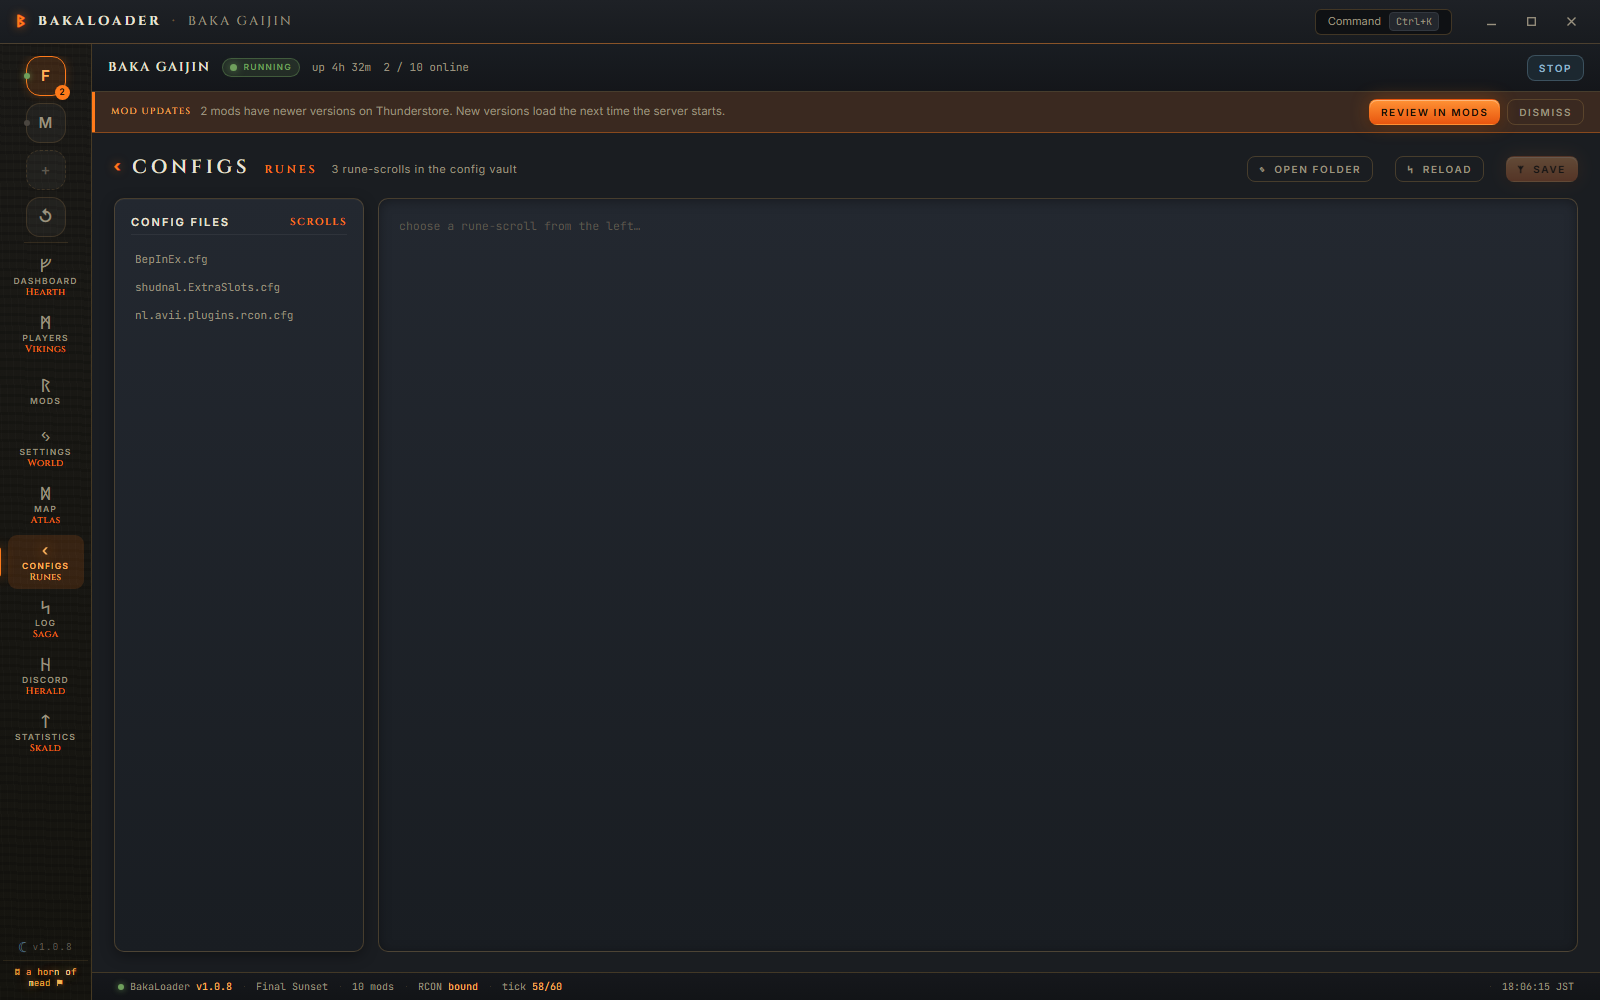
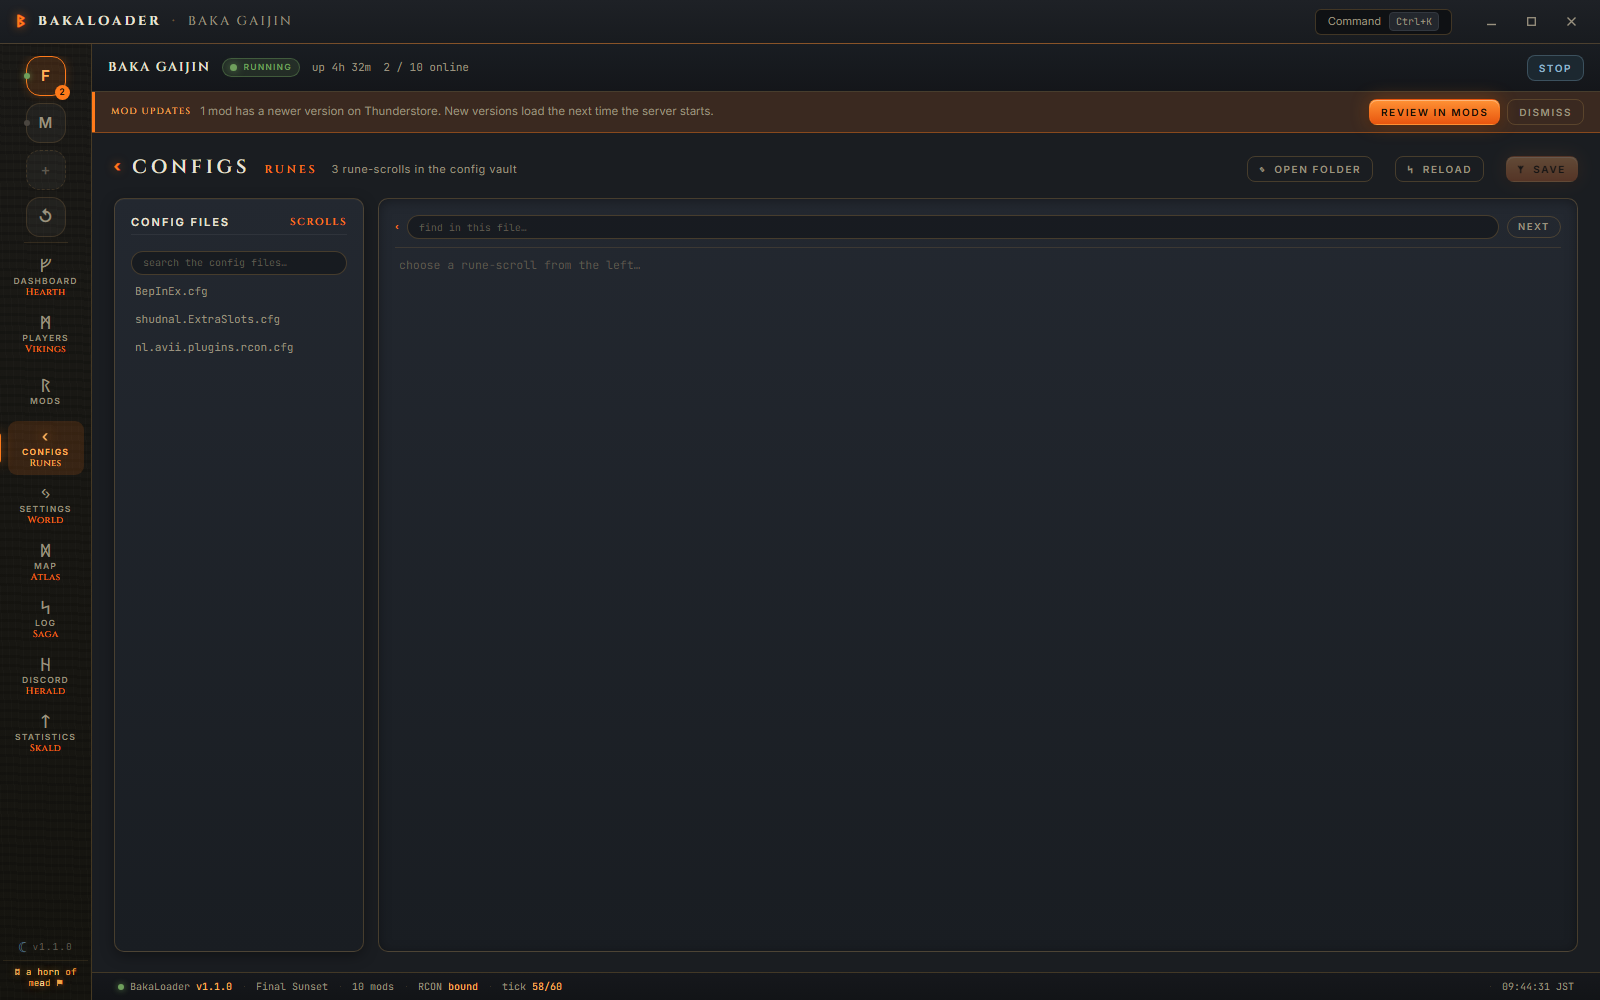
Docs: 1.0.9 and 1.1.0, Hexium opt-in, search, spawning, refreshed screenshots

diff --git a/README.md b/README.md
@@ -27,6 +27,46 @@
 
 ---
 
+## What is new in 1.1.0
+
+**A second mod site, off until you turn it on.** Some mods turn up on Hexium before they turn up on Thunderstore, and a few only ever turn up there. A new switch in the Upkeep card, **Also check Hexium**, lets BakaLoader read that site as well. It is off when you install this version and off after an upgrade, and while it is off BakaLoader does not open a connection to hexium.gg at all, not even to open one of its pages in your browser. Turn it on and a mod scan adds one step after the Thunderstore one: a blue mark on the Latest cell of any row where Hexium holds a higher version than both what you have installed and what Thunderstore has, and an **Open on Hexium** entry in the row menu for a mod the site carries.
+
+**The switch carries the whole of what it means, because turning it on is the agreement.** There is no second notice to click through. Whoever runs Hexium is not named on the site, and its accounts are Discord sign-ins, so BakaLoader cannot tell you that an author there is the same person as the author of that name on Thunderstore. With the switch on, your machine contacts hexium.gg about four times an hour while BakaLoader is open, because the index is fetched once and held for fifteen minutes however many mods you have, and the site says it keeps request logs for up to ninety days. With the switch off, nothing in the app names Hexium except the switch itself.
+
+<p align="center">
+  <a href="img/bl-hexium-switch.png"><img src="img/bl-hexium-switch.png" width="760" alt="The Also check Hexium switch in the Upkeep card, with the text that explains it"></a>
+</p>
+
+**Nothing is ever installed from Hexium on its own.** There is no automatic Hexium update, no Hexium row in **Update all**, and nothing in the scheduled restart or the empty-server restart that reaches for one. The mark is an offer and it waits for you. Choosing to install opens a dialog that names the package, the owner as Hexium spells it, the version, the size of the download when the site gives one, the folder that is already there and will be replaced, and anything the package says it needs, which BakaLoader does not fetch for you. Nothing is downloaded until you press **I accept the risk, install**.
+
+**A mod you took from Hexium is then left alone.** It carries a Hexium chip, it sits out **Update all**, it is not in the waiting updates count, and no scheduled or empty-server restart replaces it. If Thunderstore later moves past it, the row says so and the row menu offers the Thunderstore build, which asks the same way before it replaces anything. Mods you installed by hand are untouched by all of this: BakaLoader only treats a folder as a Hexium install when it put the files there itself and left its own record inside the folder saying so, and it stops believing that record the moment the folder's version stops matching it. A download has to come from an address on hexium.gg before the first request, at every redirect and at the end, it stops at 600 MiB, and if the site listed a size and what arrives is not that size then nothing is installed and the copy you had is left exactly as it was. Detail: [Hexium](https://github.com/RyanDMcAfee/ValheimBakaLoader/wiki/Hexium).
+
+**A search box on the Mods screen.** Type in the box beside the count line and the table narrows as you go. Capitals do not matter and every word has to match somewhere on the row, so `jere world` finds JereKuusela's WorldEditCommands whichever order you type the two words in. It looks at everything the row shows: the mod's name, its author, the folder it sits in, the version numbers and the tags. Escape empties the box, and pressing `/` anywhere on the Mods screen puts the cursor in it, unless you are already typing into something else, where a slash is just a slash. The search narrows what is on screen and nothing else: the loaded count, **Update all**, the sidebar badge and the standing notice about waiting updates all still read every mod, and **Update all** says on hover that it updates every mod with an update, not only the ones shown. The row menu finds a mod by its own name rather than by where it sits in the narrowed table, so every row action acts on the row you clicked. The box empties itself when you switch to another profile.
+
+<p align="center">
+  <a href="img/bl-mods-search.png"><img src="img/bl-mods-search.png" width="760" alt="The Mods screen with a search narrowing the table and a count beside the box"></a>
+</p>
+
+**The Configs screen has a search box too, and the open file has a find box.** The file list narrows the same way, and it matches the mod that wrote a file as well as the file name, so an author's name finds their config even when the file is named after the plugin. In the open file, typing in the find box marks the first match and brings it into view, Enter walks to the next one, Shift and Enter walks back, and the count beside it says which match you are on. The find box never puts the cursor into the config text, never selects any of it and never changes a letter, so nothing you type while you are searching can land in the file. Save still writes the whole file exactly as it stands.
+
+**Configs moved up the sidebar** to sit directly under Mods, so the two screens you move between while fitting a mod out are next to each other. Nothing was renamed and no link changed.
+
+**Names and messages in any alphabet.** BakaLoader and its Commander plugin used to talk to the server in a form with no room for anything but the basic Latin letters, so every other letter turned into a question mark on the way. A player named in Cyrillic, Japanese or Chinese came back into the roster as `???`, and the name BakaLoader then sent back for a spawn, a teleport or a kick was the question marks, which match nobody, so the action failed. Broadcasts and restart warnings written in those alphabets reached the world unreadable. Both ends now speak UTF-8, and a long reply split across packets never cuts a letter in half. Plain English is byte for byte what it always was. The bundled Commander plugin goes from 1.3.0 to 1.3.1 for this, and it is replaced on your next server start like the other bundled plugins.
+
+**Version numbers are compared properly.** A suffix such as `-beta.1` used to be thrown away, so `2.0.13-beta.1` and `2.0.13` looked equal. Versions now compare the way semantic versioning says they should: a pre-release ranks below its own release, `beta.2` comes before `beta.10`, `1.0.666` is higher than `1.0.7`, and a version nothing can read is never treated as newer than the one you have. For nearly every mod this changes nothing. The one case it does change is a mod folder sitting on a suffixed version, where the plain release is now correctly offered as an update.
+
+Full list on the [release notes](https://github.com/RyanDMcAfee/ValheimBakaLoader/wiki/Release-notes).
+
+## What is new in 1.0.9
+
+**Spawning works again after the Valheim update.** The latest Valheim update moved one line inside the game that BakaLoader's spawn plugins were built to read, and they were built before it moved, so the first thing the server did with them was fail. What a host saw was a spawn that half happened: you asked for six meads and one mead appeared, you asked for a two star boar and a plain boar appeared, and nothing in the app said anything was wrong. The server log had the reason in it, a "Field not found" error, once per spawn. Both plugins now ask the running game what that line looks like instead of assuming, so this shape of game change cannot take spawning down again. They are rebuilt against the current game and go into each server the next time it starts, so there is nothing to install by hand. The release also adds a check that reads the shipped plugins against the installed game and refuses a build where one of them names something the game no longer has, which is the check that would have caught this before it reached anybody.
+
+**Item quality arrives, and stackable items arrive as stacks.** The spawn window has always offered a Quality box for tools, weapons and armour, and the number you typed into it was thrown away on the way to the server, so every item turned up at quality one. The quality now goes through, and the item arrives at the full durability for that quality rather than the base one. Modded items that go past quality four keep their own ceiling instead of being cut down to four. Star levels for creatures were never affected by this and behave as before. Stackable items now arrive stacked as well: six meads is one pile of six and 150 wood is three stacks of fifty, where before it was 150 separate pieces on the ground. Anything that does not stack, and every creature, is spawned one at a time exactly as before.
+
+**A spawn the server refused now says so.** The app used to count any reply at all as a success, refusals included. It now reads what the server actually said and puts that line in front of you, so the toast reads `Spawned 6x MeadPoisonResist as 1 stack` or `Spawned 1x PickaxeBronze at quality 3`, and a spawn that did not happen says why in the server's own words instead of the cheerful confirmation that kept this bug out of sight for a whole session.
+
+Full list on the [release notes](https://github.com/RyanDMcAfee/ValheimBakaLoader/wiki/Release-notes).
+
 ## What is new in 1.0.8
 
 **Settings you save while the server is up go in at the next restart.** Every automatic restart (the scheduled one, the empty-server one, crash recovery, the one that applies mod updates) and the Restart button used to bring the server back on the settings it was started with. A change saved while the world was up sat on disk doing nothing until somebody pressed Stop and then Start, or closed and reopened the app. World difficulty was the painful one: a new set of modifiers could be ignored for a whole day of restarts. A relaunch now reads the profile again the moment before it launches, so what you saved is what comes back up. If the settings cannot be read for any reason, the relaunch keeps the ones it is already running and says so in the log rather than refusing to restart.
@@ -112,11 +152,11 @@ The app is split into nine screens. Each has a plain name, with its Norse name s
 | Screen | What it is for |
 |---|---|
 | [**Dashboard**](https://github.com/RyanDMcAfee/ValheimBakaLoader/wiki/Dashboard-%28Hearth%29) (Hearth) | Server status, who is online, next save, network addresses, CPU and RAM, a tail of the log, and the app's own settings. |
-| [**Players**](https://github.com/RyanDMcAfee/ValheimBakaLoader/wiki/Players-%28Vikings%29) (Vikings) | A sortable table with platform, session time, total playtime, last seen, deaths and position. Right-click for promote, allow, kick, ban, heal, teleport or spawn items nearby. |
-| [**Mods**](https://github.com/RyanDMcAfee/ValheimBakaLoader/wiki/Mods) | Scans your BepInEx folder against Thunderstore. Update one, update all, or paste a Thunderstore link to install. |
+| [**Players**](https://github.com/RyanDMcAfee/ValheimBakaLoader/wiki/Players-%28Vikings%29) (Vikings) | A sortable table with platform, session time, total playtime, last seen, deaths and position. Right-click for promote, allow, kick, ban, heal, teleport or spawn items nearby. A spawn arrives at the quality you asked for, stacked where the item stacks, and the server's own reply comes back to you. |
+| [**Mods**](https://github.com/RyanDMcAfee/ValheimBakaLoader/wiki/Mods) | Scans your BepInEx folder against Thunderstore, with a search box over the table. Update one, update all, or paste a link to install. Hexium can be read as a second source once you switch it on, and nothing is installed or updated from it unless you ask for it. |
 | [**Settings**](https://github.com/RyanDMcAfee/ValheimBakaLoader/wiki/Settings-%28World%29) (World) | Server name, password, port, world and seed, crossplay, backups, world modifiers with every option explained beside the dial, restart rules, RCON and folders. |
 | [**Map**](https://github.com/RyanDMcAfee/ValheimBakaLoader/wiki/Map-%28Atlas%29) (Atlas) | Your world drawn from its seed with no map mods, fog of war from what players have shared at cartography tables, portals and builds as layers, and a weather forecast. |
-| [**Configs**](https://github.com/RyanDMcAfee/ValheimBakaLoader/wiki/Configs-%28Runes%29) (Runes) | Edit your mods' config files in the app. |
+| [**Configs**](https://github.com/RyanDMcAfee/ValheimBakaLoader/wiki/Configs-%28Runes%29) (Runes) | Edit your mods' config files in the app. The list has a search box over it, and the open file has a find box that never touches the text. |
 | [**Log**](https://github.com/RyanDMcAfee/ValheimBakaLoader/wiki/Log-%28Saga%29) (Saga) | The live server log with levels, search, pause on scroll, and a console line. |
 | [**Discord**](https://github.com/RyanDMcAfee/ValheimBakaLoader/wiki/Discord-%28Herald%29) (Herald) | One status post in a Discord channel that edits itself as the server changes. |
 | [**Statistics**](https://github.com/RyanDMcAfee/ValheimBakaLoader/wiki/Statistics-%28Skald%29) (Skald) | Uptime, sessions, deaths and mod history, counted on your machine only. |
@@ -185,7 +225,7 @@ Longer version: [Install and first run](https://github.com/RyanDMcAfee/ValheimBa
   <tr>
     <td width="50%" valign="top">
       <a href="img/bl-mods.png"><img src="img/bl-mods.png" alt="Mods screen"></a>
-      <p align="center"><strong>Mods.</strong> Thunderstore scan, one-click updates, paste a link to install.</p>
+      <p align="center"><strong>Mods.</strong> Thunderstore scan, a search box, one-click updates, paste a link to install.</p>
     </td>
     <td width="50%" valign="top">
       <a href="img/bl-world.png"><img src="img/bl-world.png" alt="Server settings"></a>
@@ -223,6 +263,7 @@ This is a program that starts a server process, edits files in your Valheim fold
 **Network connections it makes**
 
 - `thunderstore.io` to read the mod index and download mod files you asked for.
+- `hexium.gg` to read its mod index and to download a mod you asked for there, and only while "Also check Hexium" is on in Upkeep. That switch is off unless you turn it on, and while it is off BakaLoader does not open a connection to that site at all. With it on, the index is read about four times an hour while the app is open, and the site says it keeps request logs for up to ninety days.
 - `api.github.com` and GitHub release downloads to check for and fetch BakaLoader updates.
 - `api.ipify.org` to find your public address for the join info.
 - Valve's own address for steamcmd, once, and the Steam client for a server update.
@@ -232,7 +273,7 @@ This is a program that starts a server process, edits files in your Valheim fold
 **Files it writes**
 
 - Its own settings, statistics and logs under `%USERPROFILE%\AppData\LocalLow\BakaLoader\ValheimBakaLoader\`.
-- Your server's BepInEx folders when you install, update or remove mods, and the admin, ban and allow lists when you use the player actions.
+- Your server's BepInEx folders when you install, update or remove mods, and the admin, ban and allow lists when you use the player actions. A mod BakaLoader installed from Hexium also gets a small record inside its own folder saying where it came from, which is how the app knows to leave that folder out of its updates.
 - Backups and restores inside your Valheim save folder, always as copies, never in place.
 
 Your server password and RCON password are stored in plain text in `userprefs.json`.
